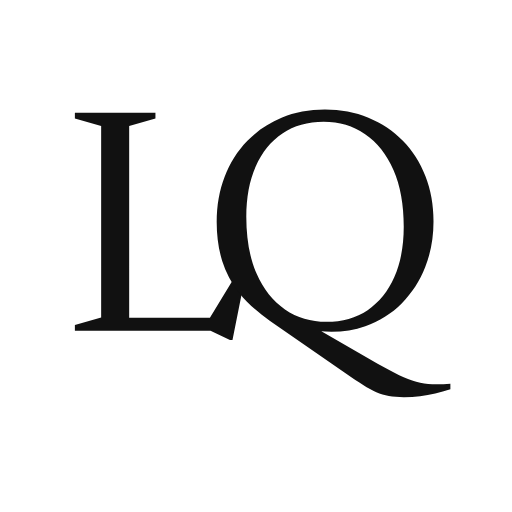
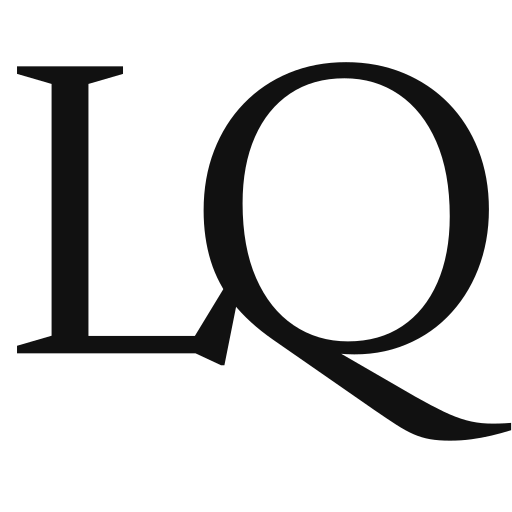
Update site branding and production PDF rendering

Changed region(s): [[0.0312, 0.0938, 1.0, 0.875]]

diff --git a/__tests__/unit/services/report-pdf.test.ts b/__tests__/unit/services/report-pdf.test.ts
@@ -36,6 +36,9 @@ afterEach(() => {
 
 describe('downloadReportPdf', () => {
   it('uses Playwright by default', async () => {
+    vi.stubEnv('REPORT_PDF_RENDERER', 'playwright')
+    vi.stubEnv('SIDECAR_URL', '')
+    vi.stubEnv('SIDECAR_API_KEY', '')
     const result = await downloadReportPdf({
       reportType: 'assessment',
       accessToken: 'good-token',
@@ -91,6 +94,89 @@ describe('downloadReportPdf', () => {
     expect(renderHtmlToPdfBuffer).toHaveBeenCalledWith(
       '<base href="http://localhost:3001/"><html><body>report</body></html>'
     )
+  })
+
+  it('prefers the sidecar when sidecar env is present and no renderer is explicitly configured', async () => {
+    vi.stubEnv('SIDECAR_URL', 'https://sidecar.example.com')
+    vi.stubEnv('SIDECAR_API_KEY', 'test-key')
+    fetchMock.mockResolvedValue(
+      new Response('<html><body>report</body></html>', {
+        status: 200,
+        headers: {
+          'content-type': 'text/html',
+        },
+      })
+    )
+
+    const result = await downloadReportPdf({
+      reportType: 'assessment',
+      accessToken: 'good-token',
+    })
+
+    expect(result).toEqual({
+      ok: true,
+      data: {
+        filename: 'assessment-report.pdf',
+        pdfBuffer: Buffer.from('%PDF-test'),
+      },
+    })
+    expect(renderDocumentUrlToPdf).not.toHaveBeenCalled()
+    expect(fetchMock).toHaveBeenCalled()
+    expect(renderHtmlToPdfBuffer).toHaveBeenCalled()
+  })
+
+  it('falls back to the sidecar when Playwright fails and sidecar env is configured', async () => {
+    vi.stubEnv('SIDECAR_URL', 'https://sidecar.example.com')
+    vi.stubEnv('SIDECAR_API_KEY', 'test-key')
+    vi.stubEnv('REPORT_PDF_RENDERER', 'playwright')
+    vi.mocked(renderDocumentUrlToPdf).mockRejectedValue(
+      new Error("browserType.launch: Executable doesn't exist")
+    )
+    fetchMock.mockResolvedValue(
+      new Response('<html><body>report</body></html>', {
+        status: 200,
+        headers: {
+          'content-type': 'text/html',
+        },
+      })
+    )
+
+    const result = await downloadReportPdf({
+      reportType: 'assessment',
+      accessToken: 'good-token',
+    })
+
+    expect(result).toEqual({
+      ok: true,
+      data: {
+        filename: 'assessment-report.pdf',
+        pdfBuffer: Buffer.from('%PDF-test'),
+      },
+    })
+    expect(renderDocumentUrlToPdf).toHaveBeenCalled()
+    expect(fetchMock).toHaveBeenCalled()
+    expect(renderHtmlToPdfBuffer).toHaveBeenCalled()
+  })
+
+  it('returns the Playwright error when Playwright fails and no sidecar env is configured', async () => {
+    vi.stubEnv('SIDECAR_URL', '')
+    vi.stubEnv('SIDECAR_API_KEY', '')
+    vi.mocked(renderDocumentUrlToPdf).mockRejectedValue(
+      new Error("browserType.launch: Executable doesn't exist")
+    )
+
+    const result = await downloadReportPdf({
+      reportType: 'assessment',
+      accessToken: 'good-token',
+    })
+
+    expect(result).toEqual({
+      ok: false,
+      error: 'pdf_render_failed',
+      message: "browserType.launch: Executable doesn't exist",
+    })
+    expect(fetchMock).not.toHaveBeenCalled()
+    expect(renderHtmlToPdfBuffer).not.toHaveBeenCalled()
   })
 
   it('returns pdf_render_failed when the sidecar HTML request fails', async () => {

diff --git a/utils/services/report-pdf.ts b/utils/services/report-pdf.ts
@@ -32,8 +32,22 @@ function injectBaseHref(html: string, baseUrl: string) {
   return `${baseTag}${html}`
 }
 
+function hasSidecarPdfConfig() {
+  return Boolean(process.env.SIDECAR_URL?.trim() && process.env.SIDECAR_API_KEY?.trim())
+}
+
 function getReportPdfRenderer(): ReportPdfRenderer {
-  return process.env.REPORT_PDF_RENDERER?.trim() === 'sidecar' ? 'sidecar' : 'playwright'
+  const configured = process.env.REPORT_PDF_RENDERER?.trim()
+  if (configured === 'sidecar' || configured === 'playwright') {
+    return configured
+  }
+
+  return hasSidecarPdfConfig() ? 'sidecar' : 'playwright'
+}
+
+async function renderViaSidecar(documentUrl: string) {
+  const html = await fetchReportHtml(documentUrl)
+  return renderHtmlToPdfBuffer(injectBaseHref(html, getPublicBaseUrl()))
 }
 
 async function fetchReportHtml(documentUrl: string) {
@@ -103,13 +117,22 @@ export async function downloadReportPdf(input: {
   documentUrl.searchParams.set('render', 'pdf')
 
   try {
-    const pdfBuffer =
-      getReportPdfRenderer() === 'playwright'
-        ? await renderDocumentUrlToPdf({ url: documentUrl.toString() })
-        : await (async () => {
-            const html = await fetchReportHtml(documentUrl.toString())
-            return renderHtmlToPdfBuffer(injectBaseHref(html, getPublicBaseUrl()))
-          })()
+    const renderer = getReportPdfRenderer()
+    let pdfBuffer: Buffer
+
+    if (renderer === 'sidecar') {
+      pdfBuffer = await renderViaSidecar(documentUrl.toString())
+    } else {
+      try {
+        pdfBuffer = await renderDocumentUrlToPdf({ url: documentUrl.toString() })
+      } catch (error) {
+        if (!hasSidecarPdfConfig()) {
+          throw error
+        }
+
+        pdfBuffer = await renderViaSidecar(documentUrl.toString())
+      }
+    }
 
     return {
       ok: true,

diff --git a/components/site/lq-mark.tsx b/components/site/lq-mark.tsx
@@ -1,14 +1,32 @@
 type LQMarkProps = {
   className?: string
   tone?: 'dark' | 'light'
+  variant?: 'display' | 'vector'
 }
 
-export function LQMark({ className = '', tone = 'dark' }: LQMarkProps) {
+export function LQMark({ className = '', tone = 'dark', variant = 'vector' }: LQMarkProps) {
   const toneClass = tone === 'light' ? 'text-[var(--site-on-dark-primary)]' : 'text-[var(--site-text-primary)]'
+
+  if (variant === 'display') {
+    return (
+      <span aria-label="Leadership Quarter" className={`inline-block select-none ${toneClass} ${className}`}>
+        <span className="inline-flex items-end font-serif text-[2.1rem] font-semibold leading-[0.88] tracking-[-0.01em]">
+          <span className="relative z-10">L</span>
+          <span className="relative z-20 -ml-[0.26em]">Q</span>
+        </span>
+      </span>
+    )
+  }
 
   return (
     <span aria-label="Leadership Quarter" className={`inline-block select-none ${toneClass} ${className}`}>
-      <svg viewBox="0 0 1229 1006" role="img" aria-hidden="true" className="h-[2.15rem] w-auto fill-current">
+      <svg
+        viewBox="0 0 1229 1006"
+        role="img"
+        aria-hidden="true"
+        shapeRendering="geometricPrecision"
+        className="h-[2.15rem] w-auto fill-current"
+      >
         <g transform="translate(0.986481, 737.868003)">
           <path d="M 537.640625 28.671875 L 529.59375 28.671875 L 468.234375 0 L 153.390625 0 L 153.390625 -41.75 L 531.609375 -41.75 L 458.171875 -27.65625 L 564.296875 -202.1875 L 582.90625 -197.65625 Z M 211.234375 -646.78125 L 211.234375 0 L 39.734375 0 L 39.734375 -18.109375 L 122.71875 -42.25 L 122.71875 -646.78125 L 39.734375 -670.921875 L 39.734375 -689.03125 L 294.21875 -689.03125 L 294.21875 -670.921875 Z M 211.234375 -646.78125 " />
         </g>

diff --git a/app/layout.tsx b/app/layout.tsx
@@ -9,6 +9,7 @@ import './globals.css'
 
 const siteDescription =
   'Leadership Quarter helps organisations identify and assess leadership capability through executive search, leadership assessment, succession strategy, and AI readiness.'
+const iconVersion = '20260312c'
 
 export const metadata: Metadata = {
   metadataBase: new URL(getPublicBaseUrl()),
@@ -19,7 +20,7 @@ export const metadata: Metadata = {
   },
   description: siteDescription,
   category: 'business',
-  manifest: '/manifest.webmanifest',
+  manifest: `/manifest.webmanifest?v=${iconVersion}`,
   openGraph: {
     title: 'Leadership Quarter',
     description: siteDescription,
@@ -43,12 +44,13 @@ export const metadata: Metadata = {
   },
   icons: {
     icon: [
-      { url: '/favicon.ico', sizes: 'any' },
-      { url: '/icon-32.png', sizes: '32x32', type: 'image/png' },
-      { url: '/icon-48.png', sizes: '48x48', type: 'image/png' },
+      { url: `/lq-mark.svg?v=${iconVersion}`, type: 'image/svg+xml' },
+      { url: `/favicon.ico?v=${iconVersion}`, sizes: 'any' },
+      { url: `/icon-32.png?v=${iconVersion}`, sizes: '32x32', type: 'image/png' },
+      { url: `/icon-48.png?v=${iconVersion}`, sizes: '48x48', type: 'image/png' },
     ],
-    shortcut: '/favicon.ico',
-    apple: '/apple-touch-icon.png',
+    shortcut: `/favicon.ico?v=${iconVersion}`,
+    apple: `/apple-touch-icon.png?v=${iconVersion}`,
   },
 }
 

diff --git a/components/site/site-nav.tsx b/components/site/site-nav.tsx
@@ -130,7 +130,7 @@ export function SiteNav() {
         <div className="mx-auto flex max-w-7xl items-center justify-between px-6 py-5 md:px-12">
           <TransitionLink href="/" className="inline-flex flex-col items-start text-[var(--site-text-primary)]">
             <span className="inline-flex items-center gap-3">
-              <LQMark className="shrink-0" />
+              <LQMark variant="display" className="shrink-0" />
               <span className="font-serif text-2xl leading-none tracking-[-0.01em]">Leadership Quarter</span>
             </span>
             <span className="font-eyebrow mt-1 w-full text-center text-[10px] uppercase tracking-[0.1em] text-[var(--site-text-muted)] sm:text-[11px]">

diff --git a/app/manifest.ts b/app/manifest.ts
@@ -1,6 +1,8 @@
 import type { MetadataRoute } from 'next'
 
 export default function manifest(): MetadataRoute.Manifest {
+  const iconVersion = '20260312c'
+
   return {
     name: 'Leadership Quarter',
     short_name: 'LQ',
@@ -12,12 +14,12 @@ export default function manifest(): MetadataRoute.Manifest {
     theme_color: '#102033',
     icons: [
       {
-        src: '/icon-192.png',
+        src: `/icon-192.png?v=${iconVersion}`,
         sizes: '192x192',
         type: 'image/png',
       },
       {
-        src: '/icon-512.png',
+        src: `/icon-512.png?v=${iconVersion}`,
         sizes: '512x512',
         type: 'image/png',
       },

diff --git a/components/site/site-footer.tsx b/components/site/site-footer.tsx
@@ -22,7 +22,7 @@ export function SiteFooter() {
         <div className="grid grid-cols-1 gap-12 border-t border-[var(--site-border-soft)] pt-12 md:grid-cols-[1.2fr_1fr_1fr_1fr]">
           <div>
             <div className="mb-4">
-              <LQMark />
+              <LQMark variant="display" />
             </div>
             <p className="font-serif text-4xl leading-[1.02] tracking-[-0.01em] text-[var(--site-text-primary)]">
               Make better

diff --git a/docs/production-checklist.md b/docs/production-checklist.md
@@ -18,7 +18,7 @@ Required environment variables:
 
 Optional (only if backend mode is re-enabled later):
 - `GENERATED_REPORTS_BUCKET` (defaults to `generated-reports`)
-- `REPORT_PDF_RENDERER` (`playwright` by default; set to `sidecar` to use the Render sidecar for PDFs)
+- `REPORT_PDF_RENDERER` (recommended value: `sidecar`; if omitted, the app will prefer sidecar whenever `SIDECAR_URL` and `SIDECAR_API_KEY` are set)
 - `SIDECAR_URL`
 - `SIDECAR_API_KEY`
 - `RESEND_REPLY_TO`
@@ -36,6 +36,7 @@ Redeploy after env updates.
 - Let Render use the checked-in `sidecar/Dockerfile`.
 - Add `SIDECAR_API_KEY` to the Render service environment and match the Vercel value.
 - Confirm Render health checks pass against `GET /health`.
+- Set `REPORT_PDF_RENDERER=sidecar` in Vercel for production to make the render path explicit.
 
 ## 3) Admin/Auth Routes
 

diff --git a/README.md b/README.md
@@ -68,14 +68,15 @@ Optional additional config:
 
 ```bash
 GENERATED_REPORTS_BUCKET=generated-reports
-REPORT_PDF_RENDERER=playwright
+REPORT_PDF_RENDERER=sidecar
 SIDECAR_URL=http://localhost:10000
 SIDECAR_API_KEY=generate-a-random-64-char-string-here
 AUTH_SHARED_COOKIE_DOMAIN=leadershipquarter.com
 ```
 
-Report downloads now default to `playwright` for closer visual fidelity with the live webpage.
-Set `REPORT_PDF_RENDERER=sidecar` if you want to route PDFs back through the Render sidecar.
+Report downloads should use `sidecar` in deployed environments.
+If `SIDECAR_URL` and `SIDECAR_API_KEY` are present, the app now prefers the sidecar automatically unless you explicitly set `REPORT_PDF_RENDERER=playwright`.
+Keep `playwright` for local or non-production workflows only.
 
 Optional first-admin bootstrap (initial setup only):
 
